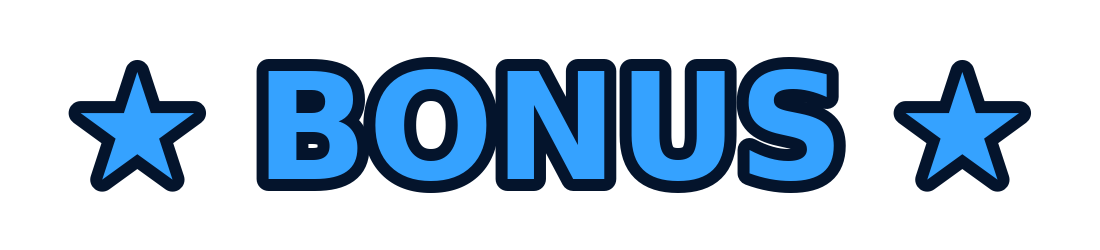
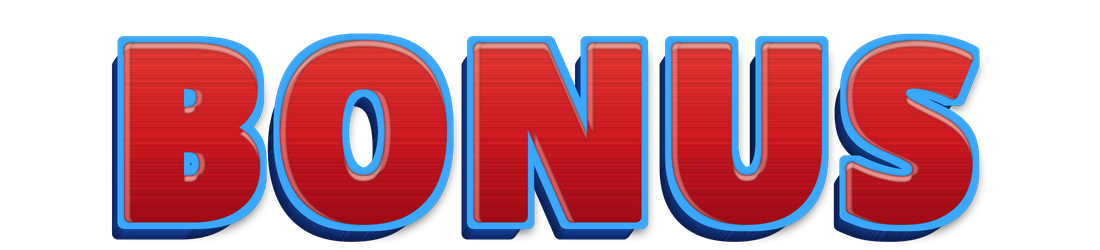
Poker Luxe: living cabinet #14 Riveted Steelworks, celebrations at every bonus moment (FS, wheel entry, wheel award, 5OAK), final #15 BONUS title, Bebas Neue standard, stars off, bonus type brightness, no gold

diff --git a/test-bench/hustle-city-slots-luxe/style.css b/test-bench/hustle-city-slots-luxe/style.css
@@ -1264,3 +1264,187 @@ body {
     linear-gradient(180deg, rgba(255, 255, 255, .22) 0%, rgba(255, 255, 255, 0) 46%),
     linear-gradient(180deg, #eef2f7 0%, #b4bfcc 28%, #67727f 50%, #39424e 53%, #828fa0 76%, #dde4ec 100%);
 }
+
+/* ===== BONUS TYPE — BRIGHTNESS PASS (Joshua, 2026-11-21 20:47 CT) =====
+   Brighter, higher-contrast text on every bonus surface. The display
+   font-family swap lands as ONE standard when Joshua's font pick does. */
+.bonus-title {
+  color: #ffffff;
+  text-shadow: 0 0 18px rgba(255, 70, 85, .95), 0 0 34px rgba(255, 42, 51, .5), 0 2px 3px rgba(0, 0, 0, .95);
+}
+.bonus-rules { color: #e8eef6; }
+.bonus-rules .gold { color: #ff8f9d; }
+.bonus-rules .bad { color: #ff5f74; }
+.bonus-msg {
+  color: #ffffff; font-size: 18px;
+  text-shadow: 0 0 14px rgba(255, 60, 80, .9), 0 1px 2px rgba(0, 0, 0, .95);
+}
+.celeb-kick { color: #ffe9a8; text-shadow: 0 0 12px rgba(255, 200, 60, .95), 0 1px 2px rgba(0, 0, 0, .9); }
+.celeb-title { color: #ffffff; text-shadow: 0 0 22px rgba(255, 70, 85, 1), 0 2px 0 #3d060c, 0 2px 6px rgba(0, 0, 0, .9); }
+.celeb-sub { color: #eaf6ff; }
+.celeb-video-cap {
+  position: absolute; left: 0; right: 0; bottom: calc(env(safe-area-inset-bottom, 0px) + 64px);
+  text-align: center; z-index: 3; pointer-events: none;
+  font-family: 'Arial Black', 'Segoe UI', Arial, sans-serif;
+  font-weight: 900; font-size: clamp(26px, 8vw, 44px); letter-spacing: .04em;
+  color: #ffffff; text-shadow: 0 0 22px rgba(255, 70, 85, 1), 0 2px 0 #3d060c, 0 3px 8px rgba(0, 0, 0, .95);
+}
+
+/* ==========================================================================
+   LIVING CABINET #14 — RIVETED STEELWORKS (Joshua's pick, 2026-11-21 20:50 CT)
+   Riveted brushed-steel body, heavy polished chrome frame, the #14
+   skulls/cards/dollar-chips marquee + belly art (cropped from his pick),
+   RED LED readouts, chrome buttons + pull arm, red light chases and
+   event flashes (driven by cabinet-life.js). NO GOLD anywhere.
+   (c) 2026 J-Dawgs Industries.
+   ========================================================================== */
+.cabinet {
+  --acc: #ff2a33;
+  --acc-hot: #ff8a75;
+  --acc-rgb: 255, 42, 51;
+  --chase-dur: 7s;
+  background:
+    repeating-linear-gradient(93deg, rgba(255, 255, 255, .028) 0 2px, transparent 2px 5px),
+    linear-gradient(168deg, #6a7684 0%, #39434f 12%, #1c232c 34%, #12181f 58%, #232c36 82%, #0a0e13 100%);
+  border: 2px solid #aeb9c6;
+  box-shadow:
+    0 0 0 2px #05070a,
+    0 0 34px rgba(255, 42, 51, .28),
+    0 24px 60px rgba(0, 0, 0, .85),
+    inset 0 1px 0 rgba(255, 255, 255, .5),
+    inset 0 0 0 1px rgba(255, 255, 255, .10);
+}
+/* red light strips down both flanks (were blue) */
+.cabinet::before, .cabinet::after {
+  background: linear-gradient(180deg, transparent, #ff2a33 18%, #ff8a75 50%, #ff2a33 82%, transparent);
+  box-shadow: 0 0 12px rgba(255, 42, 51, .9), 0 0 26px rgba(255, 42, 51, .5);
+}
+/* the moving chase layer (same construction as the Classics/Skyline standard) */
+.cab-glow {
+  z-index: 5;
+  overflow: hidden;
+  border-radius: 26px;
+  background:
+    linear-gradient(180deg, rgba(255, 255, 255, .20), transparent 10%),
+    linear-gradient(0deg, rgba(0, 0, 0, .35), transparent 22%);
+}
+.cab-glow::before {
+  content: "";
+  position: absolute; inset: 0; border-radius: 26px; padding: 3px;
+  background: conic-gradient(from var(--cabA, 0deg),
+    transparent 0deg, rgba(var(--acc-rgb), .95) 26deg, rgba(255, 255, 255, .95) 40deg,
+    rgba(var(--acc-rgb), .95) 54deg, transparent 96deg,
+    transparent 180deg, rgba(var(--acc-rgb), .55) 206deg, rgba(255, 255, 255, .6) 216deg,
+    rgba(var(--acc-rgb), .55) 226deg, transparent 262deg);
+  -webkit-mask: linear-gradient(#000 0 0) content-box, linear-gradient(#000 0 0);
+  -webkit-mask-composite: xor; mask-composite: exclude;
+  animation: cabChase var(--chase-dur) linear infinite;
+  opacity: .95;
+}
+.cab-glow::after {
+  content: "";
+  position: absolute; inset: 0; border-radius: 26px; pointer-events: none;
+  background: linear-gradient(112deg, transparent 30%, rgba(255, 255, 255, .14) 45%, rgba(255, 255, 255, .03) 52%, transparent 66%);
+}
+@property --cabA { syntax: '<angle>'; initial-value: 0deg; inherits: false; }
+@keyframes cabChase { to { --cabA: 360deg; } }
+/* event states — cabinet-life.js toggles these on #cabinet */
+.cabinet.cab-spinning { --chase-dur: 1.15s; }
+.cabinet.cab-spinning .cab-glow::before { opacity: 1; }
+.cabinet.cab-win {
+  --chase-dur: .8s;
+  box-shadow:
+    0 0 0 2px #05070a,
+    0 0 52px rgba(255, 42, 51, .75),
+    0 24px 60px rgba(0, 0, 0, .85),
+    inset 0 1px 0 rgba(255, 255, 255, .5),
+    inset 0 0 0 1px rgba(255, 255, 255, .12);
+}
+.cabinet.cab-party { --chase-dur: .55s; animation: cabPartyPulse .55s ease-in-out infinite alternate; }
+@keyframes cabPartyPulse {
+  from { box-shadow: 0 0 0 2px #05070a, 0 0 30px rgba(255, 42, 51, .45), 0 24px 60px rgba(0, 0, 0, .85), inset 0 1px 0 rgba(255, 255, 255, .5); }
+  to   { box-shadow: 0 0 0 2px #05070a, 0 0 64px rgba(255, 42, 51, .9), 0 24px 60px rgba(0, 0, 0, .85), inset 0 1px 0 rgba(255, 255, 255, .6); }
+}
+/* marquee: the #14 panel art in a riveted chrome frame */
+.marquee-wrap {
+  border: 2px solid #aeb9c6;
+  box-shadow:
+    inset 0 0 0 1px rgba(0, 0, 0, .85),
+    inset 0 0 26px rgba(255, 42, 51, .30),
+    0 2px 10px rgba(0, 0, 0, .7);
+}
+.marquee-wrap::before {
+  content: ""; position: absolute; inset: 0; z-index: 4; pointer-events: none; border-radius: 14px;
+  background:
+    radial-gradient(circle, #eef3f9 1.7px, #59636e 2.5px, transparent 3.1px) 0 0 / 30px 14px repeat-x,
+    radial-gradient(circle, #eef3f9 1.7px, #59636e 2.5px, transparent 3.1px) 0 100% / 30px 14px repeat-x,
+    radial-gradient(circle, #eef3f9 1.7px, #59636e 2.5px, transparent 3.1px) 0 0 / 14px 30px repeat-y,
+    radial-gradient(circle, #eef3f9 1.7px, #59636e 2.5px, transparent 3.1px) 100% 0 / 14px 30px repeat-y;
+  opacity: .9;
+}
+.marquee-sign {
+  padding: 0;
+  aspect-ratio: 1200 / 614;
+  background: url('assets/marquee-steel.webp') center / cover no-repeat #0a0d12;
+}
+.marquee-suits, .marquee-line1, .marquee-line2 { display: none; }
+/* RED LED readouts, like the #14 tower */
+.led {
+  background: linear-gradient(180deg, #0d0507 0%, #1c070a 55%, #0a0406 100%);
+  border: 1px solid #4a4f57;
+  box-shadow: inset 0 2px 10px rgba(0, 0, 0, .95), inset 0 0 18px rgba(255, 42, 51, .25), 0 1px 0 rgba(255, 255, 255, .14);
+  color: #ff3540;
+  text-shadow: 0 0 9px rgba(255, 42, 51, .9), 0 0 2px rgba(255, 120, 110, .95);
+}
+/* belly: the #14 skull panel, red-backlit in its steel frame */
+.belly-frame {
+  border: 2px solid #8b96a3;
+  box-shadow:
+    inset 0 0 0 1px rgba(0, 0, 0, .8),
+    inset 0 0 24px rgba(255, 42, 51, .35),
+    0 0 18px rgba(255, 42, 51, .22),
+    0 2px 8px rgba(0, 0, 0, .7);
+}
+@media (prefers-reduced-motion: reduce) {
+  .cab-glow::before { animation: none; }
+  .cabinet.cab-party { animation: none; }
+}
+
+/* ==========================================================================
+   THE STANDARD FONT — BEBAS NEUE (Joshua's pick, 2026-11-21 20:56 CT)
+   Picked from five stills; THE standard on every machine: headings,
+   labels, buttons, readouts and bonus-screen text, bright high-contrast.
+   Caps-only by design — that IS the look. Self-hosted (assets/fonts/),
+   no CDN. SIL Open Font License 1.1 (Dharma Type).
+   ========================================================================== */
+@font-face {
+  font-family: 'Bebas Neue';
+  src: url('assets/fonts/bebas-neue.woff2') format('woff2');
+  font-weight: 400; font-style: normal; font-display: swap;
+}
+body, button, input, select, textarea,
+.led, .msg, .fs-banner, .marquee-line1, .marquee-line2, .marquee-suits,
+.bonus-title, .bonus-sub, .bonus-rule, .bonus-rules, .bonus-result, .bonus-msg,
+.celeb-kick, .celeb-title, .celeb-sub, .celeb-tap, .celeb-video-cap,
+.bet-btn, .spin-face, .ctl-label, .pay-title, .sheet-title {
+  font-family: 'Bebas Neue', 'Arial Narrow', Arial, sans-serif;
+  letter-spacing: .05em;
+}
+.bonus-rule, .bonus-rules, .bonus-sub, .bonus-msg { line-height: 1.4; }
+.bonus-title { font-size: 30px; }
+.celeb-title { font-size: clamp(38px, 11vw, 58px); }
+.led { font-size: clamp(19px, 6vw, 26px); }
+
+/* Steelworks lever polish: polished chrome knob + steel mount (cabinet #14) */
+.lever-knob {
+  background: radial-gradient(circle at 34% 30%, #ffffff 0%, #dfe7ef 26%, #93a3b5 52%, #4c5866 78%, #232b34 100%);
+  box-shadow: 0 3px 8px rgba(0, 0, 0, .65), inset 0 -3px 6px rgba(0, 0, 0, .35), 0 0 10px rgba(255, 42, 51, .25);
+}
+.lever-base {
+  background: linear-gradient(180deg, #aeb9c6 0%, #5d6874 45%, #2b333d 100%);
+  border: 1px solid #12161c;
+  box-shadow: 0 3px 8px rgba(0, 0, 0, .6), inset 0 1px 0 rgba(255, 255, 255, .6);
+}
+.lever-rod {
+  background: linear-gradient(90deg, #39434f, #e8eef5 45%, #788696 60%, #232b34);
+}

diff --git a/test-bench/hustle-city-slots-luxe/game.js b/test-bench/hustle-city-slots-luxe/game.js
@@ -365,13 +365,15 @@
      celebration plays first (~3s, tap to skip ahead — never skips the
      prize itself). Input is locked by the overlay while it shows. */
   /* ---------- bonus celebration VIDEO (Joshua, 2026-11-21 19:34 CT) ----------
-     Engine-Rev Jackpot (celebration-hc-5) is Luxe's bonus celebration:
+     Engine-Rev Jackpot (celebration-hc-5) is Luxe's celebration:
      full-screen, the full 5.0s, tap-to-skip, its OWN audio unmuted (no
      sound-kit fanfare under it). The ★ BONUS ★ title rides as a separate
-     overlay layer (assets/celeb-title.png) — TITLE HOLD: Joshua's graffiti
-     pick swaps that one file when it lands. */
+     overlay layer (assets/celeb-title.png) — FINAL: round-3 pick #15
+     "Brushed Red Metal", word BONUS only, stars removed (Joshua,
+     2026-11-21 20:45 CT). Swap = replace that one file. */
   const celebVideoEl = $('celebVideo'), celebVideoVid = $('celebVideoEl');
-  function playBonusVideo() {
+  const celebVideoCap = $('celebVideoCap');
+  function playBonusVideo(capText) {
     return new Promise(res => {
       let done = false;
       const finish = () => {
@@ -384,6 +386,7 @@
         celebVideoVid.removeEventListener('ended', finish);
         res();
       };
+      if (celebVideoCap) { celebVideoCap.textContent = capText || ''; celebVideoCap.style.display = capText ? 'block' : 'none'; }
       celebVideoEl.classList.add('on');
       celebVideoEl.setAttribute('aria-hidden', 'false');
       celebVideoEl.addEventListener('click', finish);
@@ -403,10 +406,13 @@
     });
   }
   function celebrate(kind, title, sub, durMs) {
-    if (kind === 'bonus') return playBonusVideo();
+    /* the show fires at BOTH big moments (Joshua, 2026-11-21 20:50 CT): the
+       bonus trigger and the free-spins trigger (caption carries the title) */
+    if (kind === 'bonus') return playBonusVideo('');
+    if (kind === 'fs') return playBonusVideo(title);
     return new Promise(res => {
       celebEl.className = 'celeb on k-' + kind;
-      celebKickEl.textContent = kind === 'bonus' ? '★ BONUS ★' : '★ FREE SPINS ★';
+      celebKickEl.textContent = kind === 'bonus' ? 'BONUS' : 'FREE SPINS';
       celebTitleEl.textContent = title;
       celebSubEl.textContent = sub || '';
       celebEl.setAttribute('aria-hidden', 'false');
@@ -599,7 +605,7 @@
           bonusMsg.textContent = 'BANKRUPT — the wheel gives nothing this time.';
           Kit.bust(); /* the low bust sting — no synth buzz */
         } else if (val === Math.max(...WEDGES)) {
-          bonusMsg.textContent = `★ JACKPOT! ${val}× your bet = ${fmt(pay)} credits! ★`;
+          bonusMsg.textContent = `JACKPOT! ${val}× your bet = ${fmt(pay)} credits!`;
           Kit.jackpot(); /* full bell + coin celebration */
         } else {
           bonusMsg.textContent = `The wheel pays ${val}× your bet = ${fmt(pay)} credits!`;
@@ -611,6 +617,10 @@
           await countUp(winEl, before, before + pay, Math.min(1500, 400 + pay));
           renderReadouts(before + pay);
           save();
+        }
+        if (pay > 0) {
+          /* the wheel AWARD moment celebrates too (Joshua, 2026-11-21 20:57 CT) */
+          await playBonusVideo(`THE WHEEL PAYS ${val}× YOUR BET!`);
         }
         setTimeout(() => {
           bonusOverlay.classList.remove('on');
@@ -673,6 +683,11 @@
     notePeak();
     save();
 
+    if (!ev.bonus && ev.lineWins.some(w => w.count >= 5)) {
+      /* FIVE OF A KIND celebrates too (Joshua, 2026-11-21 20:57 CT) */
+      await celebrate('bonus', 'FIVE OF A KIND!', 'Five on a line — that is a big one!', celebDur());
+    }
+
     /* Bonus Wheel plays before free spins when both trigger together.
        Celebrate first — never cut straight in (Joshua, 12:52 CT). */
     if (ev.bonus) {
@@ -687,7 +702,7 @@
 
     if (ev.freeSpins > 0) {
       freeSpinsLeft += ev.freeSpins;
-      fsBanner.textContent = `★ ${ev.freeSpins} FREE SPINS ★ LINE WINS ×2 ★`;
+      fsBanner.textContent = `${ev.freeSpins} FREE SPINS — LINE WINS ×2`;
       fsBanner.classList.add('on');
       msgEl.textContent = `${ev.scatterCount} scatters! ${ev.freeSpins} free spins${isFree ? ' added' : ''} — here they come!`;
       spinning = false;

diff --git a/test-bench/hustle-city-slots-luxe/index.html b/test-bench/hustle-city-slots-luxe/index.html
@@ -123,7 +123,7 @@
 
 <div class="celeb" id="celeb" aria-hidden="true" role="alertdialog" aria-label="Celebration">
   <div class="celeb-frame">
-    <div class="celeb-kick" id="celebKick">★ BONUS ★</div>
+    <div class="celeb-kick" id="celebKick">BONUS</div>
     <div class="celeb-title" id="celebTitle">BONUS WHEEL!</div>
     <div class="celeb-sub" id="celebSub"></div>
     <div class="celeb-tap">TAP TO PLAY</div>
@@ -132,16 +132,17 @@
 
 <div class="celeb-video" id="celebVideo" aria-hidden="true" role="alertdialog" aria-label="Bonus celebration">
   <video id="celebVideoEl" src="assets/celeb-bonus.mp4" playsinline preload="auto"></video>
-  <!-- TITLE SWAP POINT: the ★ BONUS ★ title is this separate layer + file
-       (assets/celeb-title.png). Joshua's graffiti pick (2026-11-21) swaps
-       that ONE file when it lands — nothing else changes. -->
-  <div class="celeb-video-title"><img src="assets/celeb-title.png" alt="★ BONUS ★" draggable="false"></div>
+  <!-- TITLE LAYER: the BONUS title is this separate layer + file
+       (assets/celeb-title.png). FINAL treatment: round-3 pick #15
+       "Brushed Red Metal", word only, no stars (Joshua, 2026-11-21). -->
+  <div class="celeb-video-title"><img src="assets/celeb-title.png" alt="BONUS" draggable="false"></div>
+  <div class="celeb-video-cap" id="celebVideoCap"></div>
   <div class="celeb-video-tap">TAP TO SKIP</div>
 </div>
 
 <div class="bonus-overlay" id="bonusOverlay" aria-hidden="true" aria-label="Bonus Wheel">
   <div class="bonus-card">
-    <h2 class="bonus-title">★ BONUS WHEEL ★</h2>
+    <h2 class="bonus-title">BONUS WHEEL</h2>
     <p class="bonus-rules">3 BONUS tokens lit the wheel — one spin, on the house.<br>
       Wedges pay <b>× your total bet</b>. <b class="gold">JACKPOT pays 100×</b>. <b class="bad">BANKRUPT pays nothing</b>.</p>
     <div class="wheel-wrap">
@@ -183,6 +184,7 @@
 <script src="machines.js"></script>
 <script src="soundkit.js"></script>
 <script src="game.js"></script>
+<script src="cabinet-life.js"></script>
 <script>
   if ('serviceWorker' in navigator) {
     window.addEventListener('load', () => navigator.serviceWorker.register('sw.js').catch(() => {}));

diff --git a/test-bench/hustle-city-slots-luxe/cabinet-life.js b/test-bench/hustle-city-slots-luxe/cabinet-life.js
@@ -1,0 +1,32 @@
+/* LIVING CABINET — presentation-only state mirror (2026-11-21).
+   Joshua picked the cabinet directions; the cabinet crew's plan: the
+   winning look is rebuilt as a LIVING cabinet — animated lighting driven
+   by game state. This script is that driver: it watches the game's own
+   UI signals (SPIN/STOP mode on the spin button, the win flash, the
+   celebration / bonus overlays, the free-spins banner) and mirrors them
+   as classes on #cabinet — cab-spinning / cab-win / cab-party — so
+   style.css can run the light chases. It reads classes only: it never
+   touches game state, credits, reels, RNG, or outcomes.
+   (c) 2026 J-Dawgs Industries. */
+'use strict';
+(function () {
+  var cab = document.getElementById('cabinet');
+  if (!cab) return;
+  var spinBtn = document.getElementById('spinBtn');
+  var winFlash = document.getElementById('winFlash');
+  var celeb = document.getElementById('celeb');
+  var bonus = document.getElementById('bonusOverlay');
+  var fsBanner = document.getElementById('fsBanner');
+  function has(el, cls) { return !!(el && el.classList && el.classList.contains(cls)); }
+  function sync() {
+    cab.classList.toggle('cab-spinning', has(spinBtn, 'stop') || has(spinBtn, 'stop-mode'));
+    cab.classList.toggle('cab-win', has(winFlash, 'on'));
+    cab.classList.toggle('cab-party', has(celeb, 'on') || has(bonus, 'on') || has(fsBanner, 'on'));
+  }
+  var obs = new MutationObserver(sync);
+  [spinBtn, winFlash, celeb, bonus, fsBanner].forEach(function (el) {
+    if (el) obs.observe(el, { attributes: true, attributeFilter: ['class'] });
+  });
+  sync();
+  window.__cabLifeLoaded = true;
+})();

diff --git a/test-bench/hustle-city-slots-luxe/sw.js b/test-bench/hustle-city-slots-luxe/sw.js
@@ -1,7 +1,7 @@
 /* Hustle City Slots — Poker Luxe service worker. (c) 2026 J-Dawgs Industries. */
-const CACHE = 'hc-slots-luxe-v6';
+const CACHE = 'hc-slots-luxe-v8';
 const ASSETS = [
-  './', './index.html', './style.css', './game.js', './logic.js', './machines.js', './soundkit.js',
+  './', './index.html', './style.css', './game.js', './logic.js', './machines.js', './soundkit.js', './cabinet-life.js',
   './assets/sfx/bell.mp3', './assets/sfx/win-small.mp3', './assets/sfx/win-med.mp3',
   './assets/sfx/win-big.mp3', './assets/sfx/coins.mp3', './assets/sfx/coin.mp3',
   './assets/sfx/count-tick.mp3', './assets/sfx/bust.mp3', './assets/sfx/fanfare.mp3',
@@ -15,9 +15,9 @@ const ASSETS = [
   './assets/sym-ac.webp', './assets/sym-kg.webp',
   './assets/sym-qn.webp', './assets/sym-jk.webp', './assets/sym-dm.webp',
   './assets/sym-cp.webp', './assets/sym-cg.webp', './assets/sym-dk.webp',
-  './assets/sym-wd.webp', './assets/sym-sc.webp', './assets/sym-bn.webp', './assets/celeb-title.png',
+  './assets/sym-wd.webp', './assets/sym-sc.webp', './assets/sym-bn.webp', './assets/celeb-title.png', './assets/fonts/bebas-neue.woff2',
   './assets/sym-x2.webp', './assets/sym-x3.webp',
-  './assets/deck-plate.webp', './assets/belly.webp', './assets/coin-tray.webp'
+  './assets/deck-plate.webp', './assets/belly.webp', './assets/marquee-steel.webp', './assets/coin-tray.webp', './assets/celeb-bonus.mp4'
 ];
 self.addEventListener('install', e => {
   e.waitUntil(caches.open(CACHE).then(c => c.addAll(ASSETS)).then(() => self.skipWaiting()));
